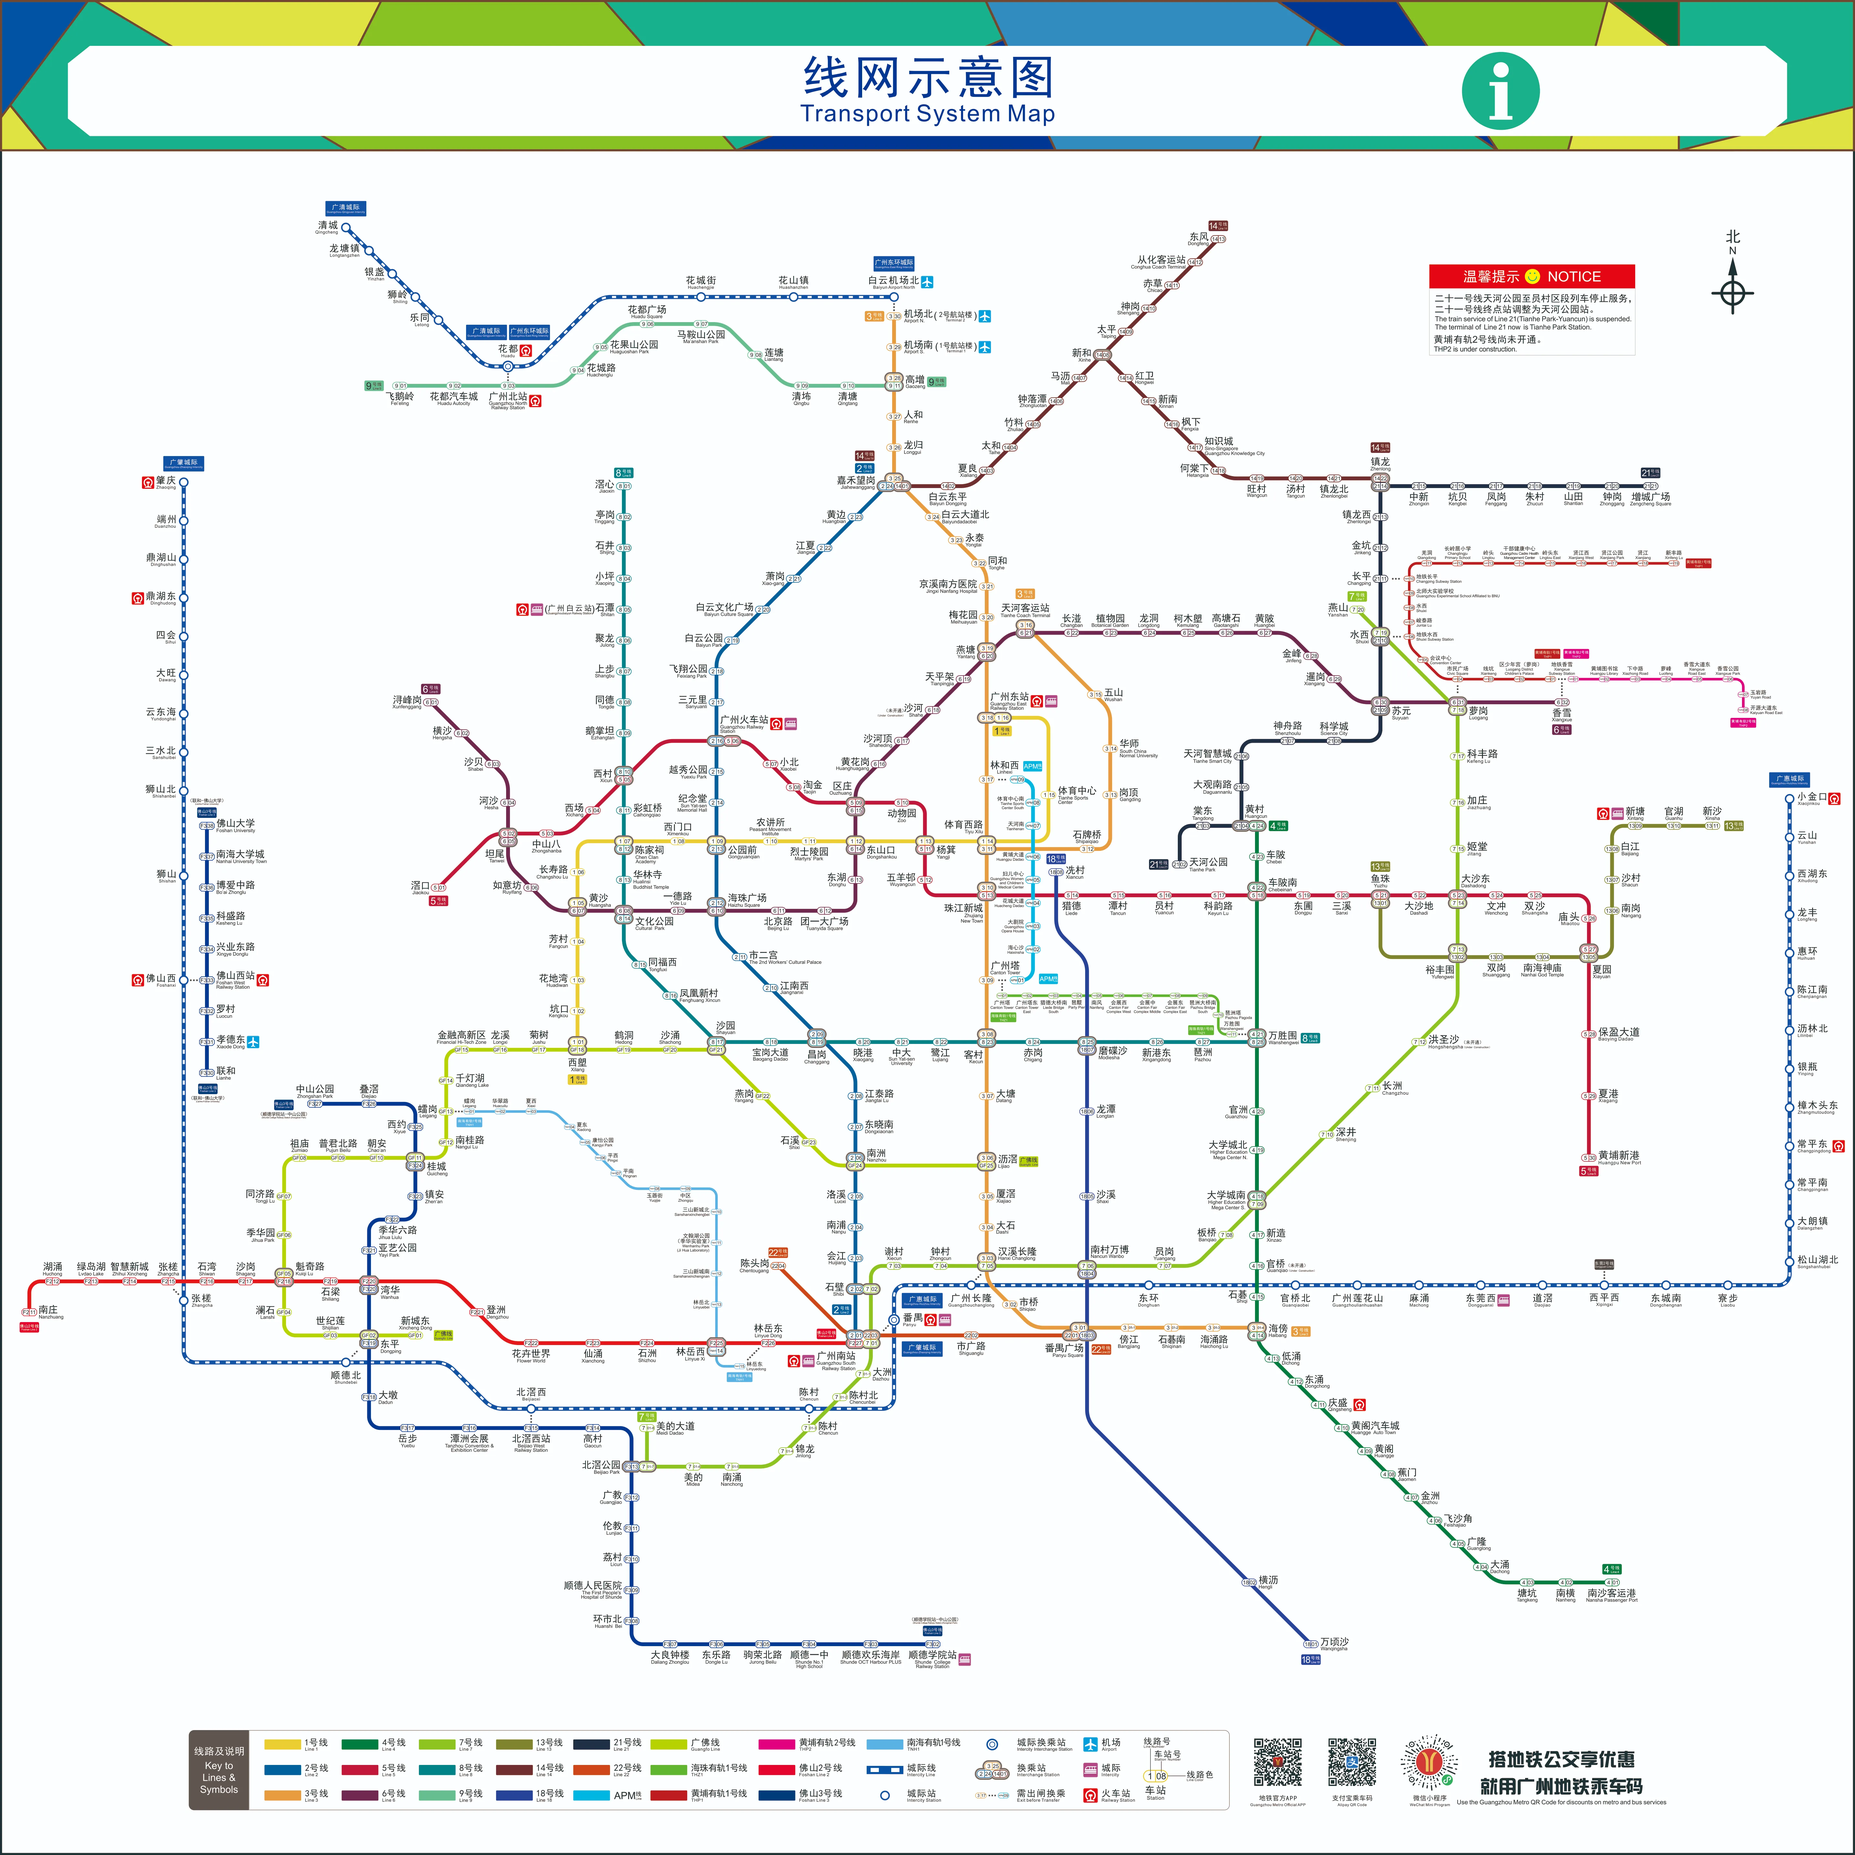
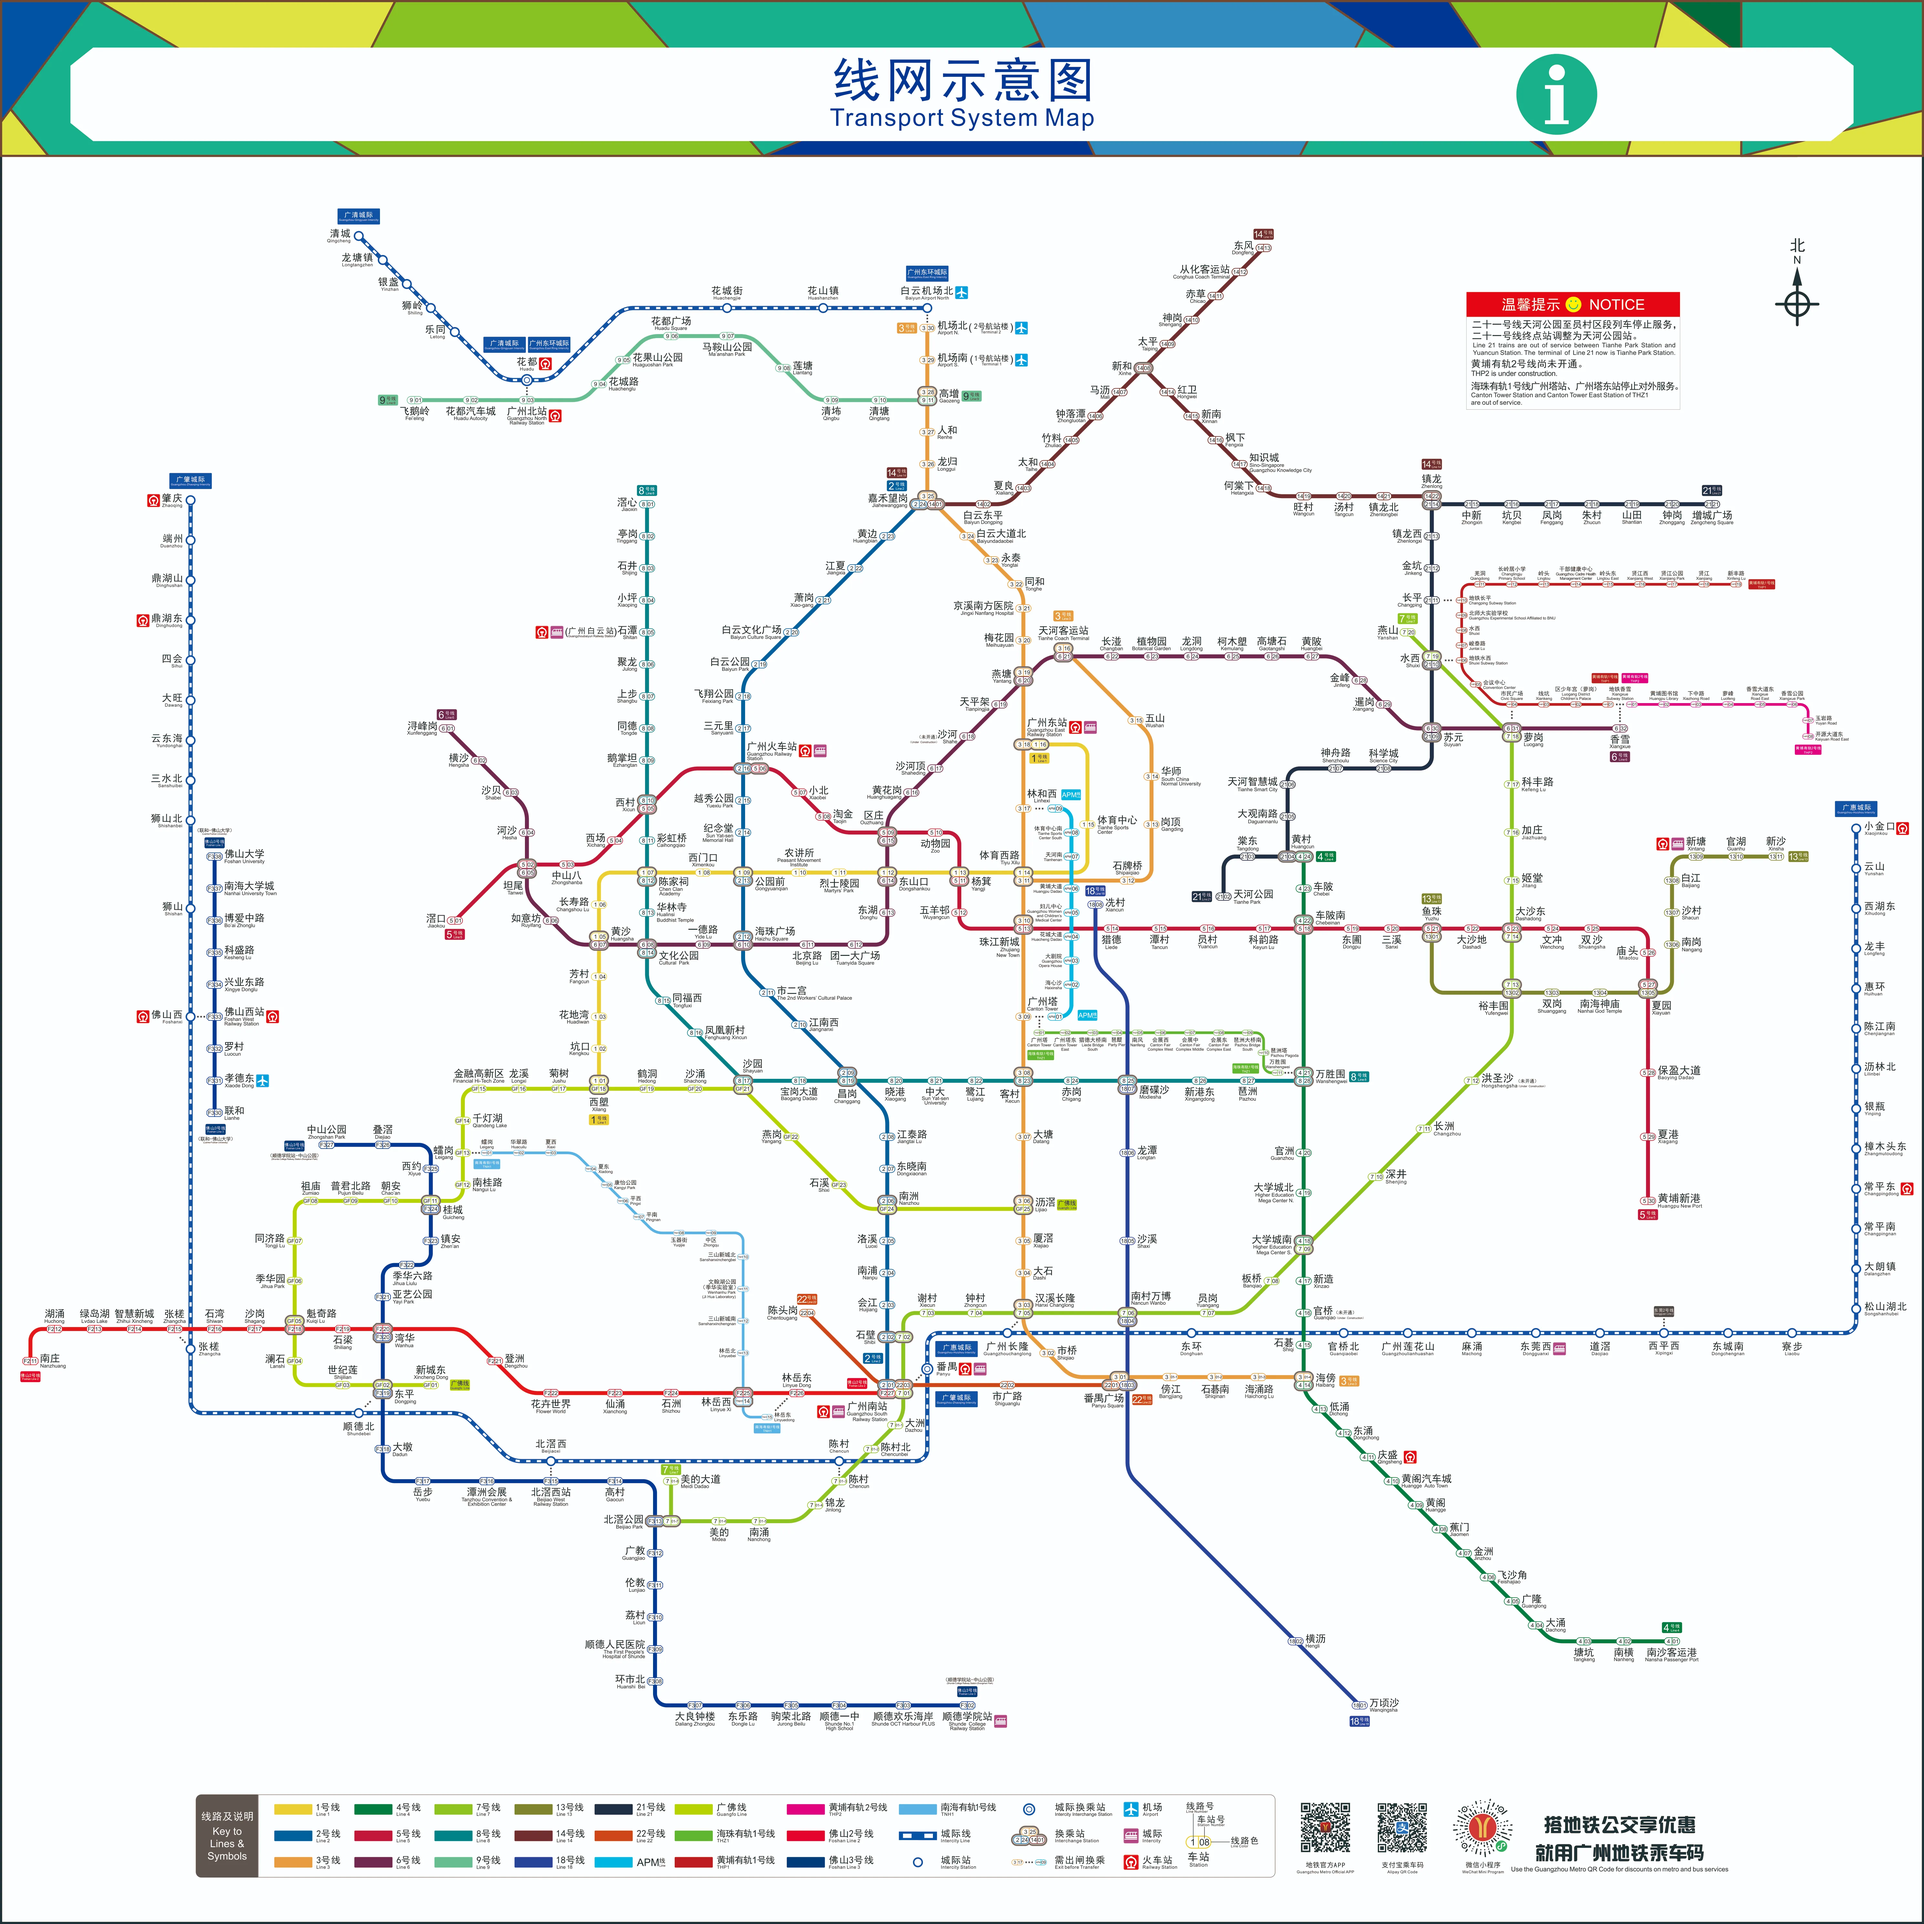
Add files via upload

Changed region(s): [[0.7475, 0.1246, 0.9033, 0.218], [0.6852, 0.9344, 0.7787, 0.9655], [0.5295, 0.4672, 0.5606, 0.4983]]

diff --git a/index.html b/index.html
@@ -48,7 +48,7 @@
     </div>
     <div class="main">
         <div class="index-main">
-            <marquee behavior="" direction="">2024年11月1日起，3号线番禺广场-海傍开通，4号线前往市区的乘客可在海傍站换乘</marquee>
+            <marquee behavior="" direction="">为提升阅江路品质需要，海珠有轨电车广州塔站-广州塔东站将拆除，期间终点站为猎德大桥南站，拆除完成终点站为广州塔东站</marquee>
             <div>地铁，真的不是说每个人都懂得怎么搭的。不少人在乘车换乘普遍会选择跟着指引走，有些是通过站厅换乘；有些是通过站台节点换乘。但实际上想用最短的时间来换乘线路，是有方法滴。本期文章就来梳理一下广州、佛山地铁换乘线路时最快捷（可能）的站台门（或称屏蔽门，下文统称为屏蔽门）编号</div>
             <img src="./images/index1.jpg" alt="">
             <div>如上图红框所示，每个屏蔽门上都有一个号码。因此，只要记住换乘时路线最快捷的屏蔽门，高峰期换乘快人九条街</div>
